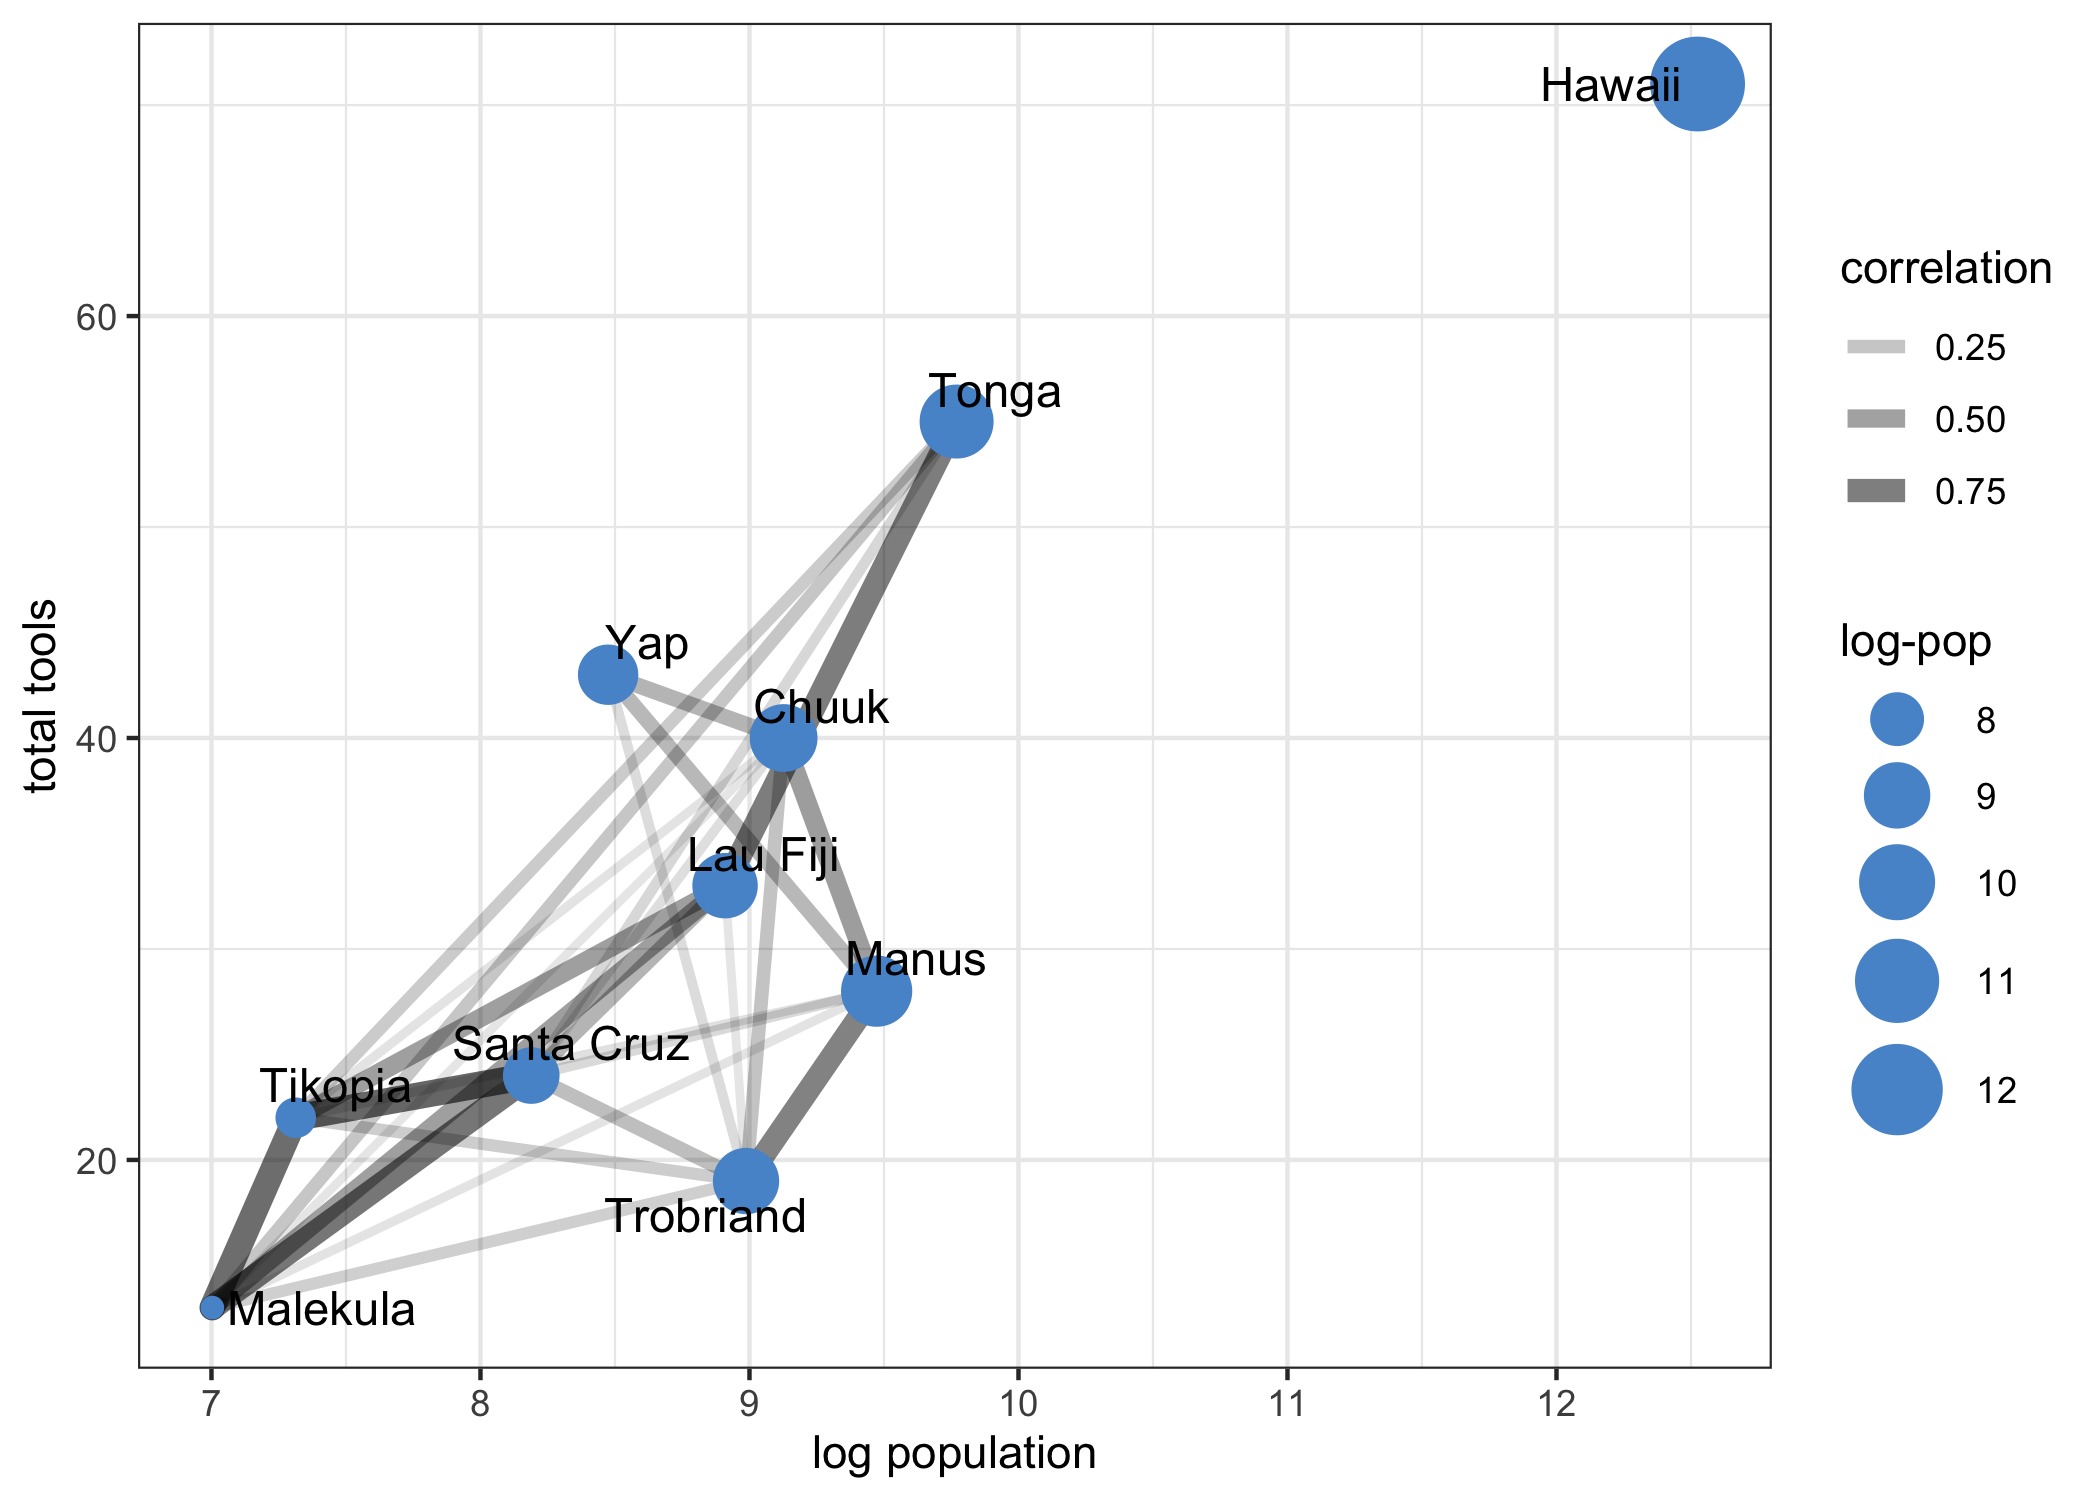
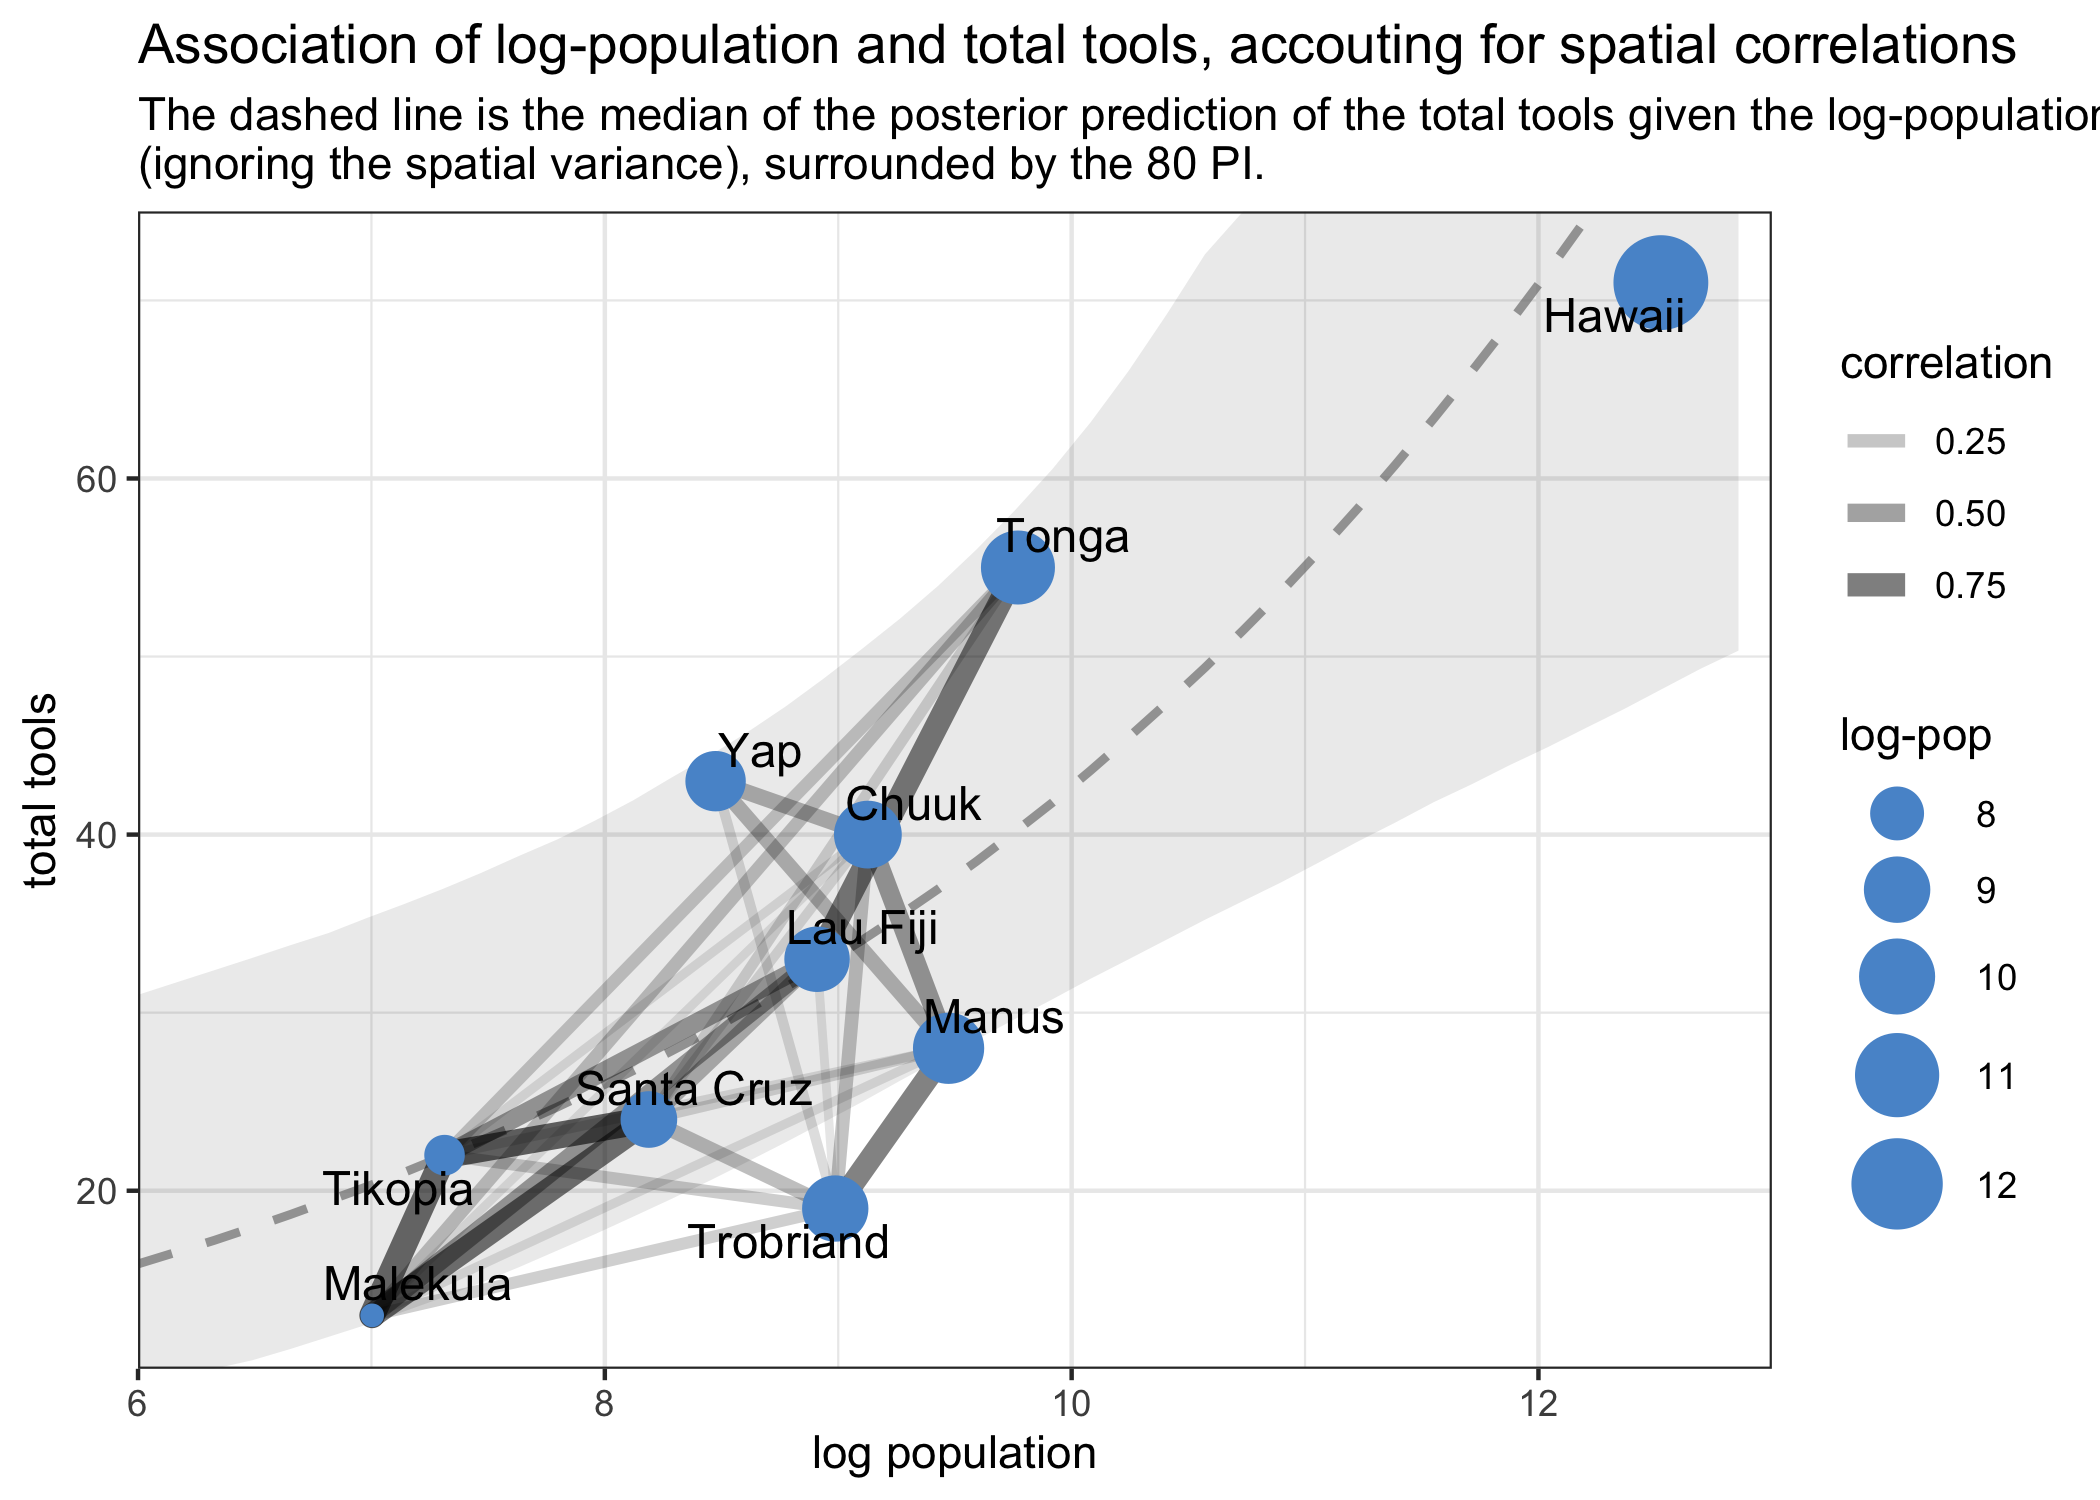
Chapter 13. Adventures in Covariance (finished)

diff --git a/ch13_adventures-in-covariance.md b/ch13_adventures-in-covariance.md
@@ -1222,11 +1222,29 @@ ggraph(gr_layout) +
 ![](ch13_adventures-in-covariance_files/figure-gfm/unnamed-chunk-34-1.png)<!-- -->
 
 ``` r
+logpop_seq <- seq(6, 14, length.out = 50)
+lambda <- map(logpop_seq, ~ exp(post$a + post$b*.x))
+lambda_median <- map_dbl(lambda, median)
+lambda_pi80 <- map(lambda, PI, prob = 0.80) %>% 
+    map_dfr(pi_to_df)
+
+post_pred <- tibble(logpop = logpop_seq,
+                    lambda_median = lambda_median) %>%
+    bind_cols(lambda_pi80) %>%
+    mutate(x10_percent = map_dbl(x10_percent, ~ max(c(.x, 10))),
+           x90_percent = map_dbl(x90_percent, ~ min(c(.x, 75))))
+
 gr_layout <- create_layout(Rho_gr, layout = "nicely")
 gr_layout$x <- d$logpop[match(colnames(Rho), gr_layout$name)]
 gr_layout$y <- d$total_tools[match(colnames(Rho), gr_layout$name)]
 
 ggraph(gr_layout) +
+    geom_ribbon((aes(x = logpop, ymin = x10_percent, ymax = x90_percent)),
+                data = post_pred,
+                alpha = 0.1) +
+    geom_line(aes(x = logpop, y = lambda_median),
+              data = post_pred,
+              color = grey, size = 1, alpha = 0.7, lty = 2) +
     geom_edge_link(aes(alpha = weight, width = weight),
                    lineend = "round", linejoin = "round") +
     geom_node_point(aes(size = logpop), color = blue) +
@@ -1234,14 +1252,39 @@ ggraph(gr_layout) +
     scale_edge_width_continuous(range = c(1, 3)) +
     scale_edge_alpha_continuous(range = c(0.1, 0.6)) +
     scale_size_continuous(range = c(2, 10)) +
+    scale_x_continuous(limits = c(6, 13), expand = c(0, 0)) +
+    scale_y_continuous(limits = c(10, 75), expand = c(0, 0)) +
     theme_bw() +
     labs(x = "log population",
          y = "total tools",
          size = "log-pop",
          edge_width = "correlation",
-         edge_alpha = "correlation")
+         edge_alpha = "correlation",
+         title = "Association of log-population and total tools, accouting for spatial correlations",
+         subtitle = "The dashed line is the median of the posterior prediction of the total tools given the log-population\n(ignoring the spatial variance), surrounded by the 80 PI.")
 ```
+
+    #> Warning: Removed 11 row(s) containing missing values (geom_path).
 
 ![](ch13_adventures-in-covariance_files/figure-gfm/unnamed-chunk-35-1.png)<!-- -->
 
   - interpretation of above plots:
+      - in the first, we see that Ml, Ti, and SC are all very close
+        together spatially and have a high correlation of their varying
+        intercepts
+      - the second shows that these three cultures are below the
+        expected number of tools per their population
+          - they they all lie below the expectation and are so close
+            together is consistent with spatial covariance
+
+### 13.4.2 Other kinds of “distance”
+
+  - other examples of a continuous variable for the varying effect:
+      - phyolgenetic distance
+      - network distance
+      - cyclic covariation of time
+          - build the covariance matrix with a periodic function such as
+            sine or cosine
+  - also possible to have more than one dimension of distance in the
+    same model
+      - gets merged into a single covariance matrix

diff --git a/README.md b/README.md
@@ -60,6 +60,9 @@ Classification](ch10_counting-and-classification.md)
 
 [Chapter 13. Adventures in Covariance](ch13_adventures-in-covariance.md)
 
+[Chapter 14. Chapter 14. Missing Data and Other
+Opportunities](ch14_missing-data-and-other-opportunities.md)
+
 -----
 
 ## Other R packages for Bayes

diff --git a/ch14_missing-data-and-other-opportunities.md b/ch14_missing-data-and-other-opportunities.md
@@ -1,0 +1,8 @@
+Chapter 14. Missing Data and Other Opportunities
+================
+
+  - cover two common applications of Bayesian statistics:
+    1.  *measurement error*
+    2.  *Bayesian imputation*
+
+## 14.1 Measurement error
